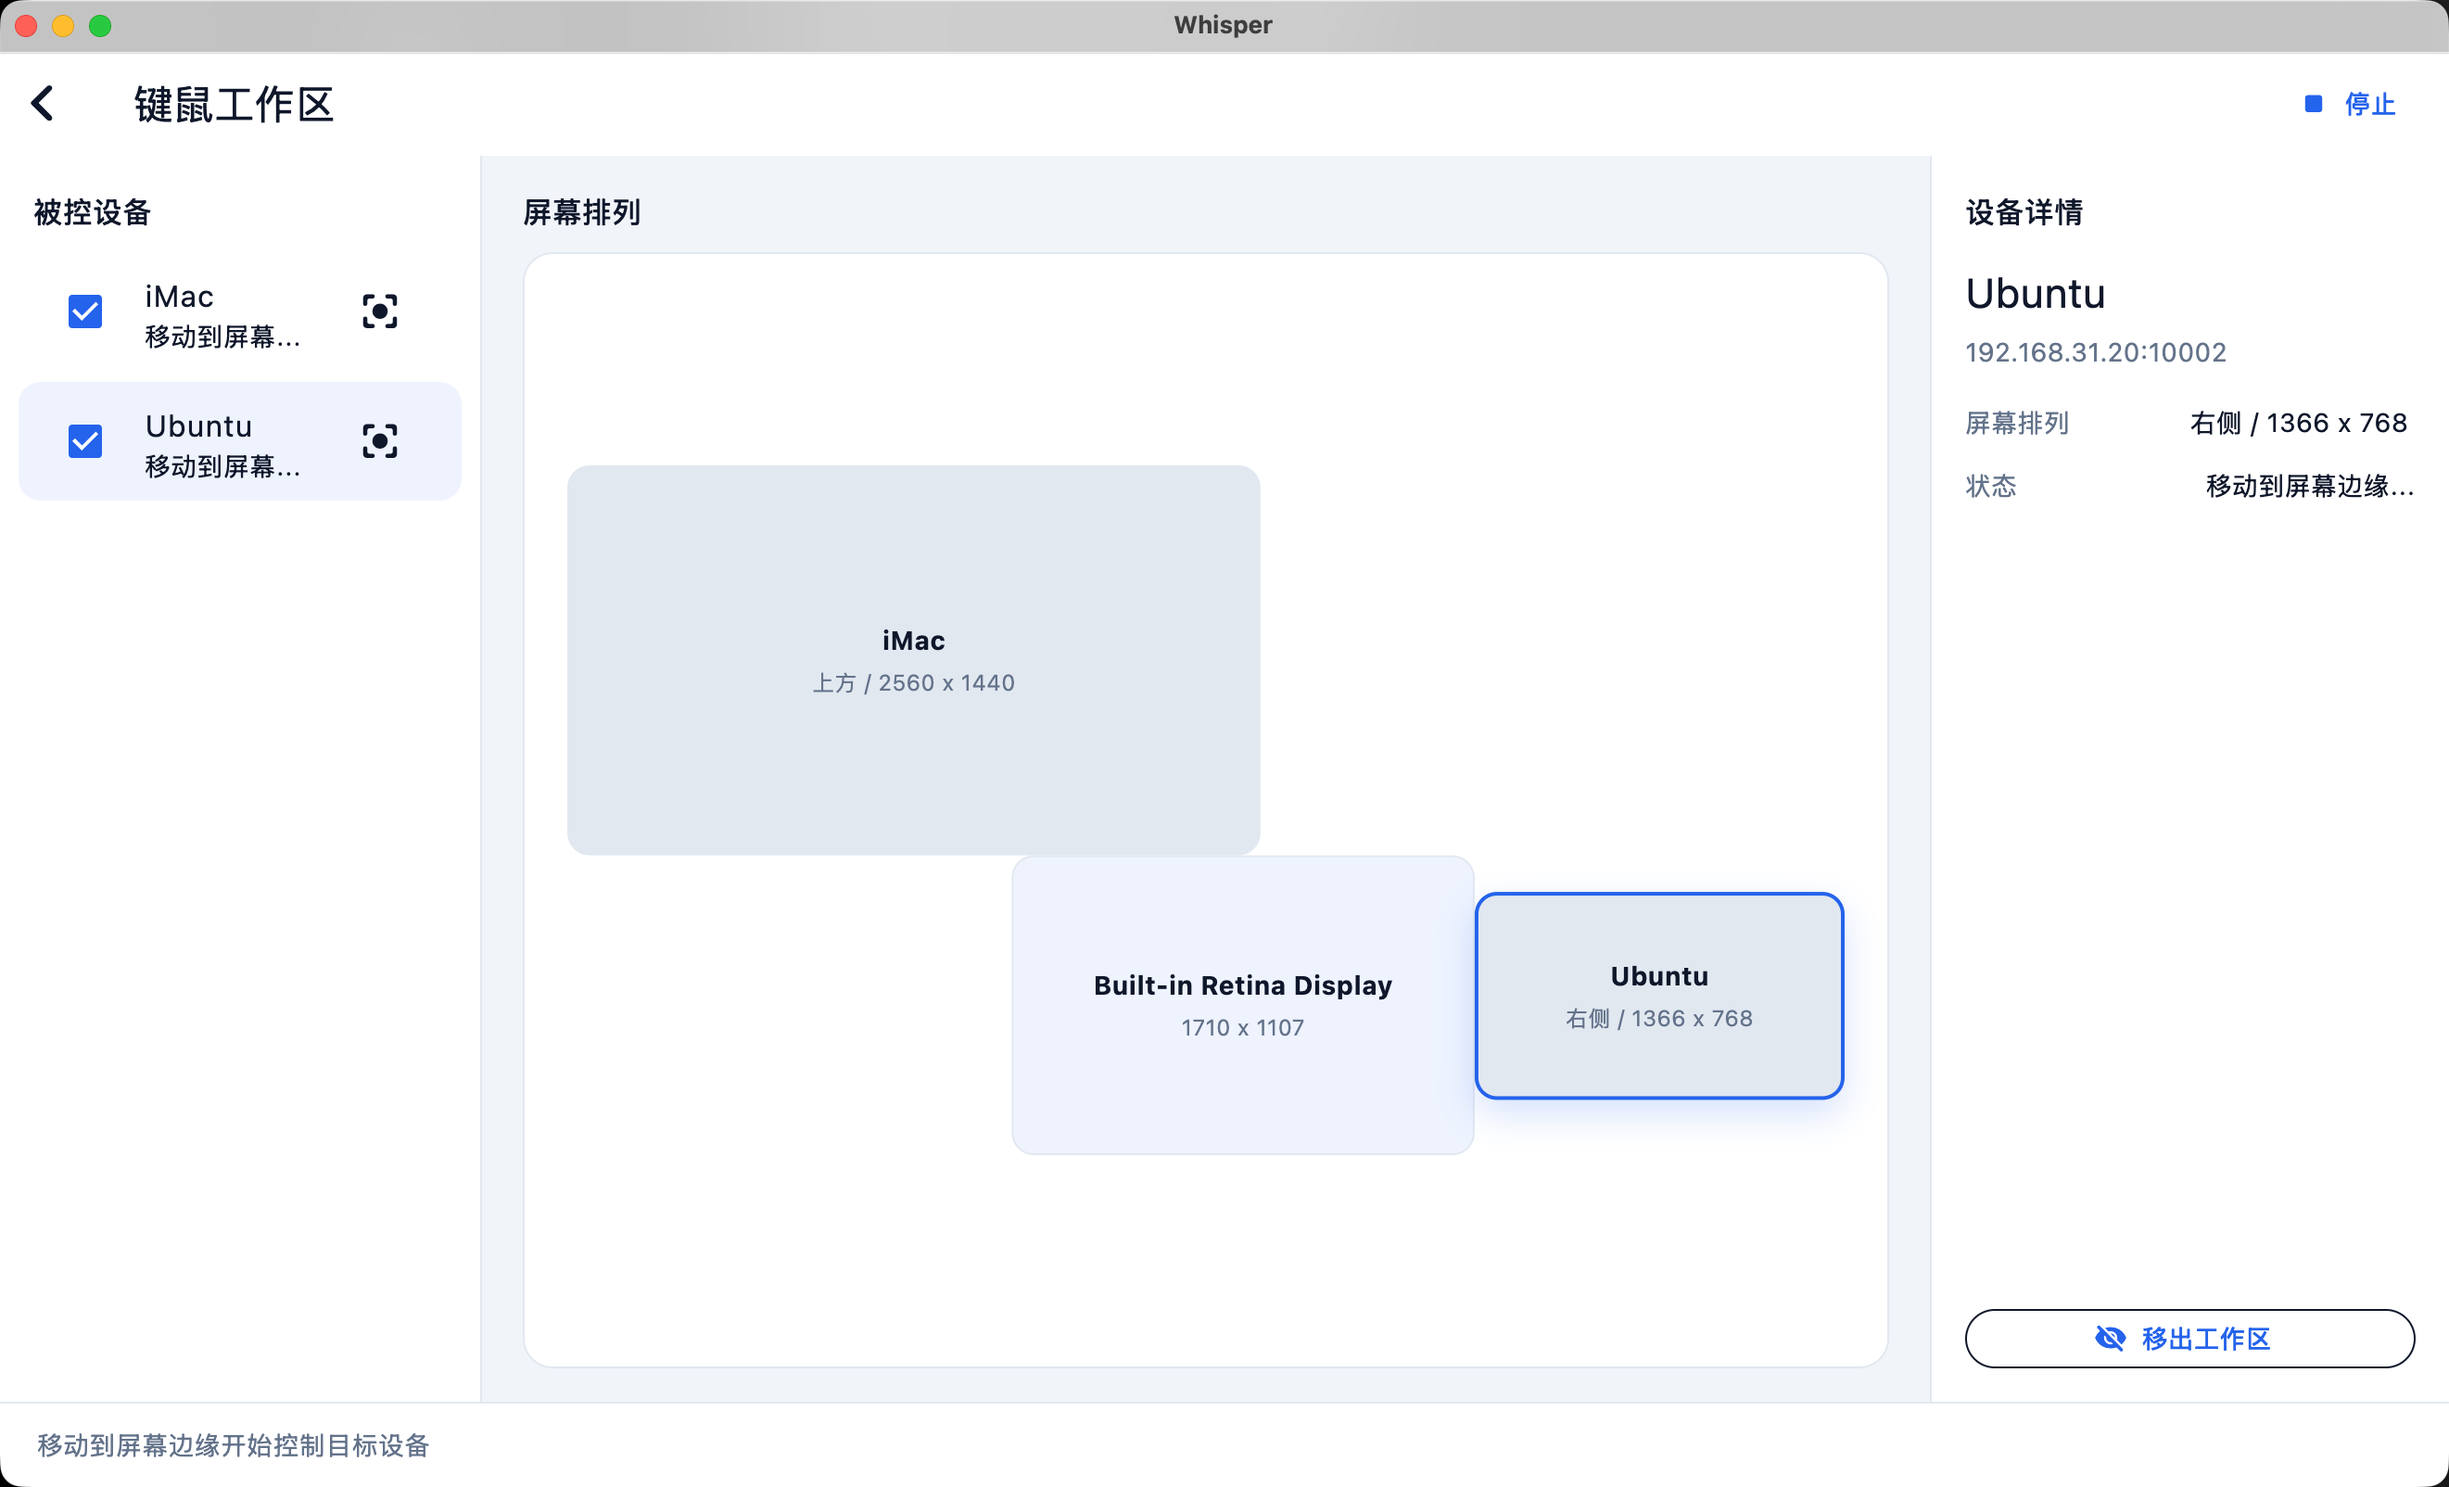
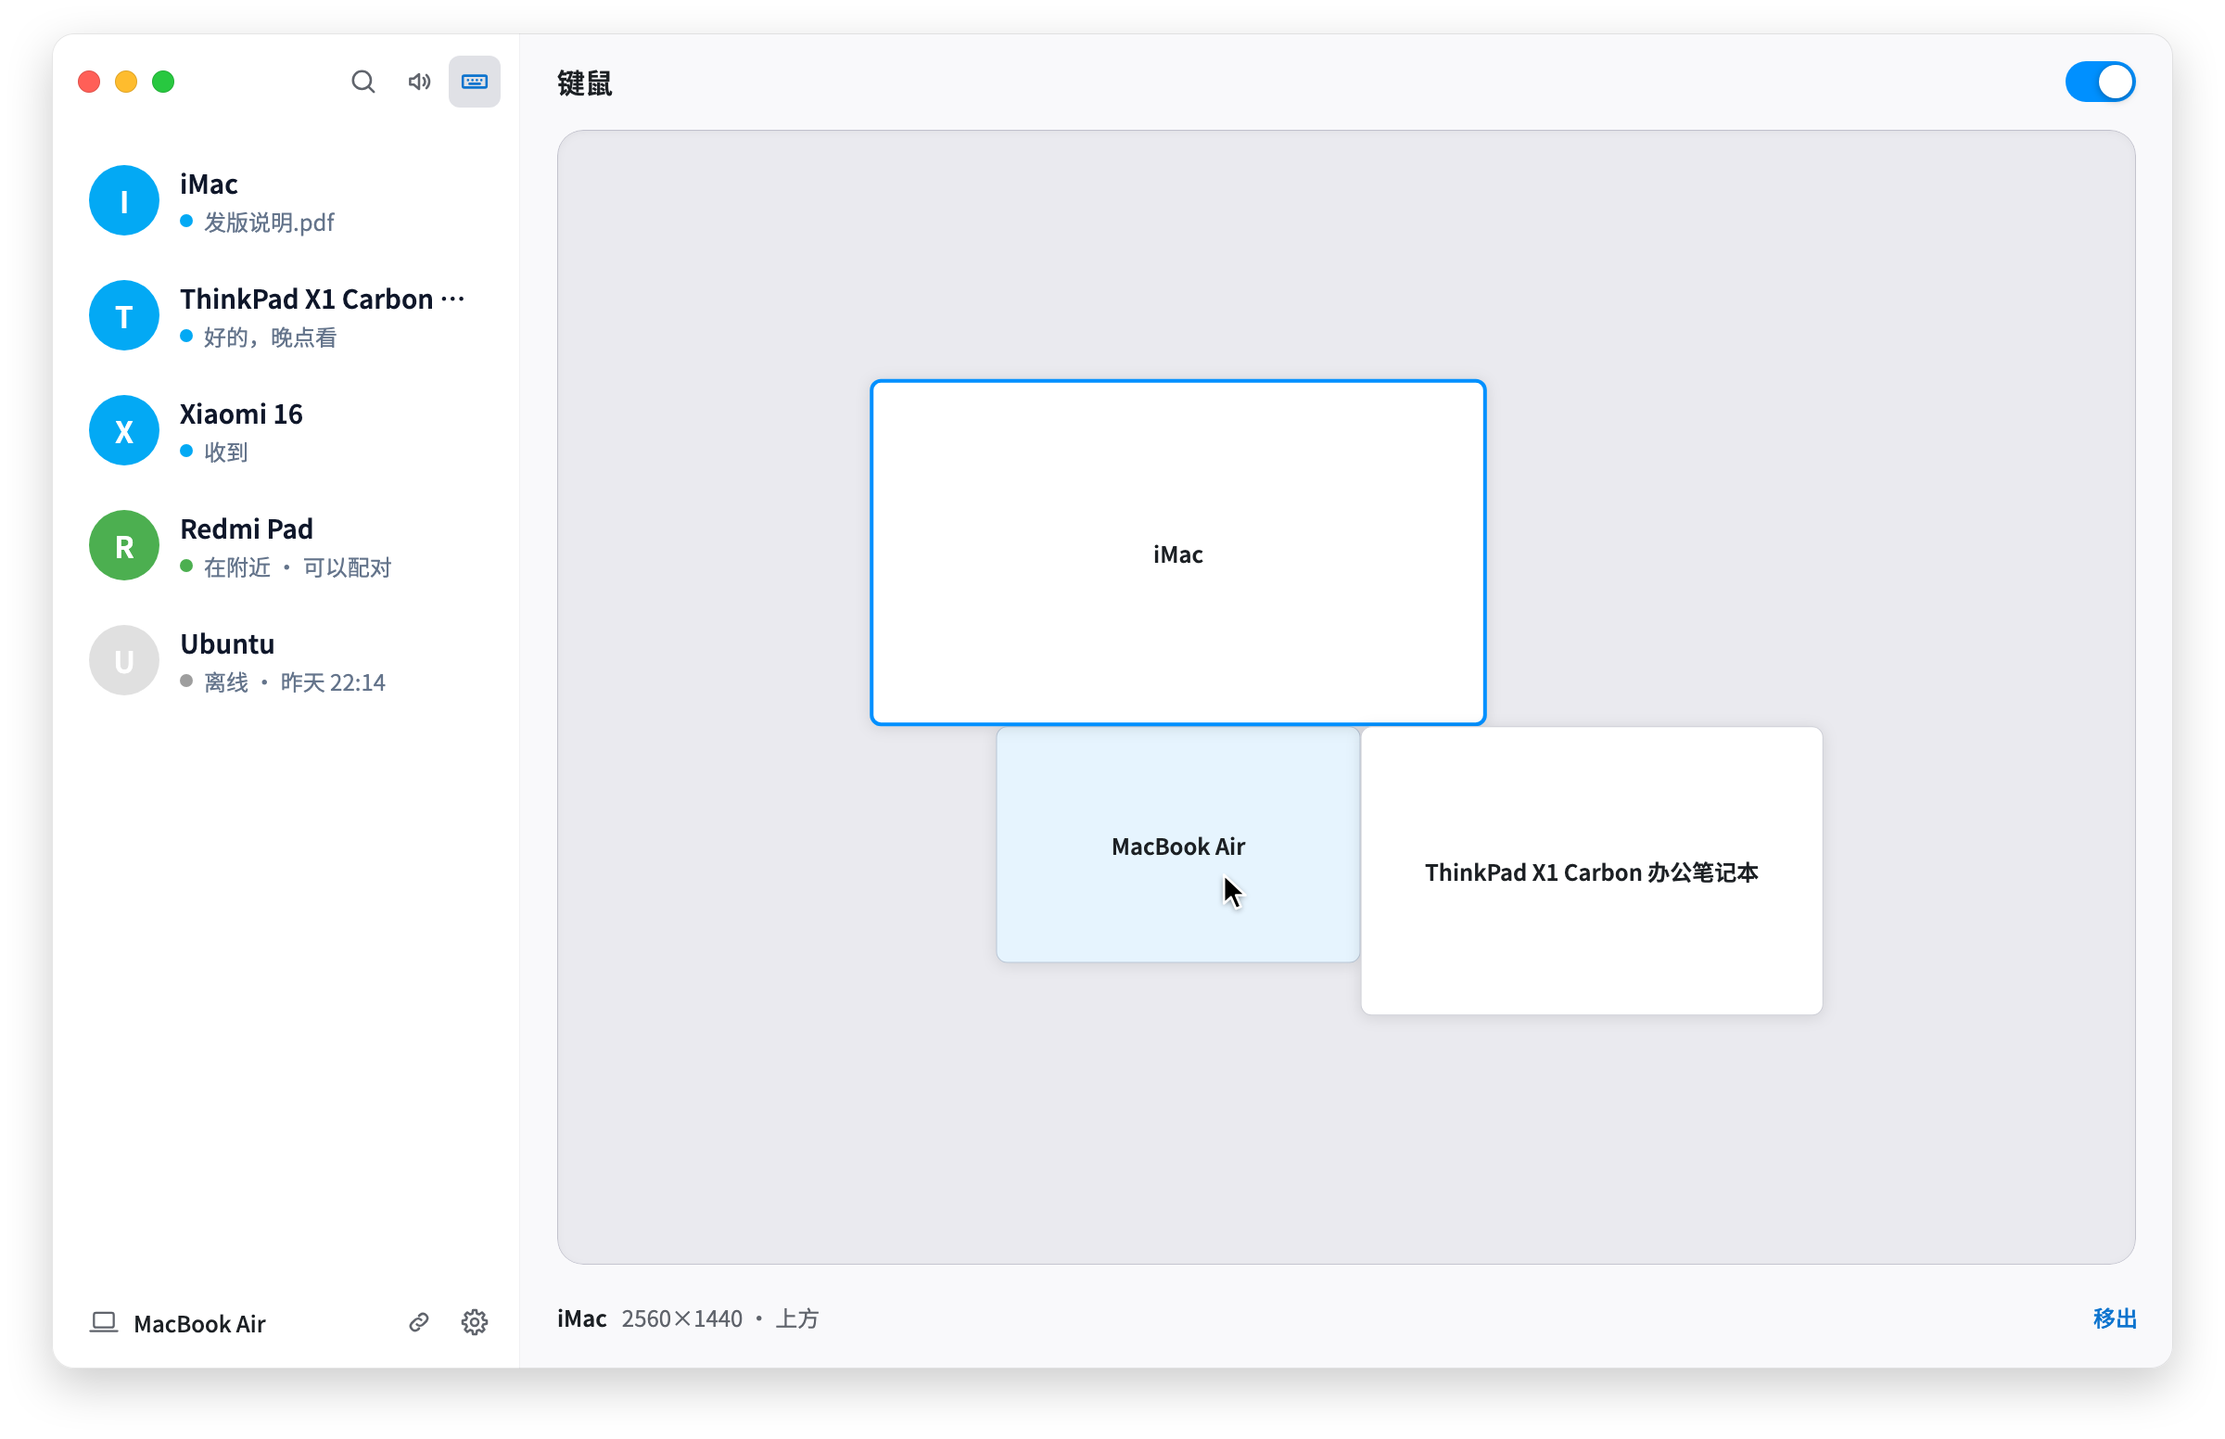
docs(readme): 更新截图和操作说明
截图换成新界面，用示例数据出图，不带个人信息。
操作路径改成现在的入口，补上我的记录、截图标注和诊断信息。

diff --git a/README_en.md b/README_en.md
@@ -25,6 +25,7 @@ Whisper is a LAN collaboration app. Paired devices connect to each other directl
 | Feature | What it does |
 | --- | --- |
 | **Text and files** | Send them like chat messages; transfers resume and are verified on arrival |
+| **My notes** | A conversation with this device itself, for text and files when nobody else is around; nothing is sent anywhere |
 | **Folders** | Send a whole folder from a desktop, structure and all, without archiving |
 | **File browsing** | Browse, copy, rename or delete the other device's files, with its approval |
 | **Mount on this computer** | Open, edit, create and delete the other device's files in Finder, File Explorer or a Linux file manager |
@@ -36,7 +37,7 @@ Whisper is a LAN collaboration app. Paired devices connect to each other directl
 | **Phone controller** | Turn an Android phone into an air mouse, touchpad, and keyboard |
 | **System audio sharing** | Play a computer's sound on one or more other devices |
 | **Notification forwarding** | Show chosen Android apps' notifications, like codes, on your computer |
-| **Desktop screenshots** | Click a window or drag a region and the capture lands on the clipboard |
+| **Desktop screenshots** | Click a window or drag a region, mark it up right beside the selection (box, circle, arrow, pen, text, mosaic), then copy or save it |
 | **TV casting** | Receive DLNA casts from video apps on your computer (experimental) |
 
 | Audio sharing | Keyboard and mouse sharing |
@@ -60,9 +61,9 @@ iOS / iPadOS: the project has no paid Apple Developer account, so the app is not
 
 1. Install and open Whisper on two devices connected to the same local network.
 2. Select the other device in the device list, then check and confirm the pairing code on both sides.
-3. Open the conversation and start sending. Keyboard/mouse sharing, audio sharing, and the other tools are in the device tools area on desktop.
+3. Open the conversation and start sending. Sound and keyboard/mouse sharing are at the top of the sidebar on desktop.
 
-> The other device is not listed? Select the QR icon above the device list, then scan its code or enter its IP address and port (`10002` by default).
+> The other device is not listed? On desktop select this device's name at the bottom left; on a phone select the plus button. Then scan a QR code or enter the other device's IP address and port (`10002` by default).
 
 ## Everyday actions
 
@@ -70,15 +71,16 @@ iOS / iPadOS: the project has no paid Apple Developer account, so the app is not
 | --- | --- |
 | Send what is on the clipboard | Press `Cmd+Option+V` on macOS, `Ctrl+Alt+V` on Windows / Linux |
 | Send from another app | Use the Android share sheet, or the file context menu on desktop |
-| Send a folder | Drop it into a conversation, or choose "Folder" when attaching |
-| Browse the other device's files | Select "Files" in Device Details (top right); drag files out to copy |
-| Mount the other device's files | Turn on "Mount on this computer" in Device Details; eject to turn off |
+| Send a folder | Drop it into a conversation, or choose "Folder" from `+` in the message box |
+| Browse the other device's files | Switch to "Files" at the top of the conversation; drag files out to copy |
+| Mount the other device's files | Select the info button at the top right, then turn on "Mount"; eject to turn off |
 | Send to a device without Whisper | Right-click or long-press it in "Files", then "Create Share Link…" |
-| Use the other device's windows | Select "Flow" in Device Details, then choose a window or app |
-| Start keyboard/mouse sharing | In the workspace, place the other screen beside yours, then "Start" |
+| Use the other device's windows | Switch to "Apps" at the top of the conversation, then choose a window or app |
+| Play sound on other devices | Select the speaker at the top of the sidebar, check the devices, then press play on the device picture |
+| Start keyboard/mouse sharing | Select the keyboard at the top of the sidebar, place the other screen beside yours, then turn on the switch at the top right |
 | Leave keyboard/mouse sharing | Press `Ctrl+Alt+Esc` (`Control+Option+Esc` on macOS) |
 | Control a computer from a phone | Select "Control computer" in the Android conversation, then start |
-| Take a screenshot | Use the screenshot button or your shortcut on desktop; `Esc` cancels |
+| Take a screenshot | Use the screenshot button in the message box or your shortcut on desktop, then mark it up beside the selection; `Esc` cancels |
 
 The [user guide](docs/user-guide_en.md) covers every feature in full.
 
@@ -114,6 +116,7 @@ On Wayland, keyboard and mouse sharing supports GNOME and KDE Plasma. GNOME asks
 | Pointer stuck on another device | Press `Ctrl+Alt+Esc` (`Control+Option+Esc` on macOS) |
 | Stutter on Windows | Set Settings → System → Projecting to this PC to "Always Off" |
 | No keyboard/mouse on macOS | Grant Accessibility in System Settings, then reopen Whisper |
+| Whisper says it is not running properly | Select "View" on the notice or open "Diagnostics" in Settings to copy, save or report it |
 | Windows lock screen or UAC | Needs the system service from the installer; see the [user guide](docs/user-guide_en.md#windows-lock-screen-and-uac) |
 
 ## Security
